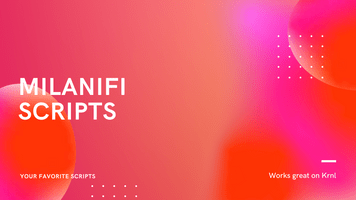
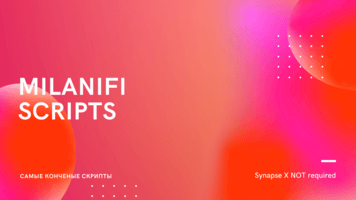
URL fix and Scripts update

diff --git a/projects/ch-rr/index.html b/projects/ch-rr/index.html
@@ -8,7 +8,7 @@
   <body>
     <input
       type="text"
-      value="https://milanifi.github.io/cum-hangout.html"
+      value="https://milanifi.github.io/projects/cum-hangout"
       id="link"
     />
     <button onclick="copy()">copy link</button>
@@ -30,7 +30,7 @@
       }
     </script>
 
-    <a href="./projects/cum-hangout">
+    <a href="/projects/cum-hangout">
       <button>go to the link</button>
     </a>
   </body>

diff --git a/projects/stemee-rr/index.html b/projects/stemee-rr/index.html
@@ -8,7 +8,7 @@
   <body>
     <input
       type="text"
-      value="https://milanifi.github.io/stemee.html"
+      value="https://milanifi.github.io/projects/stemee"
       id="link"
     />
     <button onclick="copy()">copy link</button>
@@ -30,7 +30,7 @@
       }
     </script>
 
-    <a href="./projects/stemee">
+    <a href="/projects/stemee">
       <button>go to the link</button>
     </a>
   </body>

diff --git a/projects/index.html b/projects/index.html
@@ -53,7 +53,7 @@
           <p class="card-text">
             My scripts for Roblox
           </p>
-          <a href="/scripts" class="btn btn-primary">Download</a>
+          <a href="/scripts" class="btn btn-primary">View</a>
         </div>
       </div>
     </div>

diff --git a/README.md b/README.md
@@ -2,6 +2,18 @@
 
 ## History
 
+### Scripts image update
+
+Scripts image updated
+
+---
+
+### URL fix
+
+Fixed problems with urls
+
+---
+
 ### Scripts
 
 Added scripts for Roblox.
